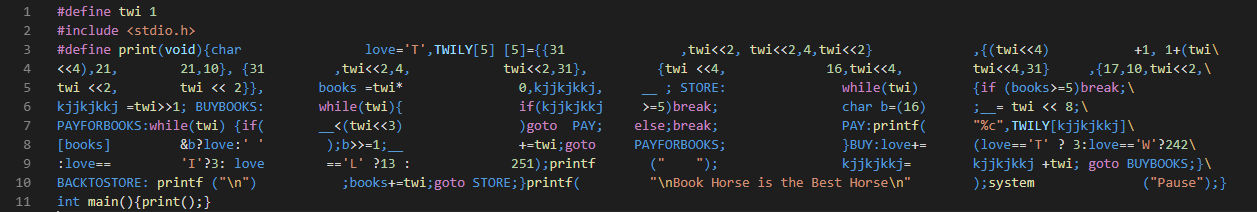
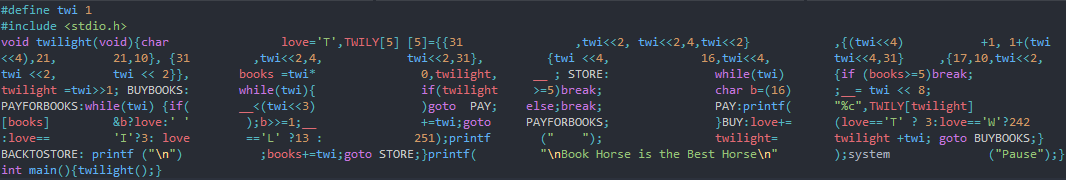
Add files via upload

diff --git a/book.c b/book.c
@@ -1,0 +1,11 @@
+#define twi 1
+#include <stdio.h>
+void twilight(void){char                love='T',TWILY[5] [5]={{31                ,twi<<2, twi<<2,4,twi<<2}            ,{(twi<<4)           +1, 1+(twi
+<<4),21,        21,10}, {31         ,twi<<2,4,            twi<<2,31},         {twi <<4,             16,twi<<4,         twi<<4,31}     ,{17,10,twi<<2,
+twi <<2,        twi << 2}},       books =twi*               0,twilight,     __ ; STORE:               while(twi)       {if (books>=5)break;
+twilight =twi>>1; BUYBOOKS:       while(twi){               if(twilight     >=5)break;                char b=(16)      ;__= twi << 8;
+PAYFORBOOKS:while(twi) {if(       __<(twi<<3)               )goto  PAY;    else;break;                PAY:printf(      "%c",TWILY[twilight]
+[books]         &b?love:' '        );b>>=1;__               +=twi;goto     PAYFORBOOKS;               }BUY:love+=      (love=='T' ? 3:love=='W'?242
+:love==         'I'?3: love        =='L' ?13 :             251);printf       ("    ");                twilight=        twilight +twi; goto BUYBOOKS;}
+BACKTOSTORE: printf ("\n")           ;books+=twi;goto STORE;}printf(         "\nBook Horse is the Best Horse\n"        );system              ("Pause");}
+int main(){twilight();}
